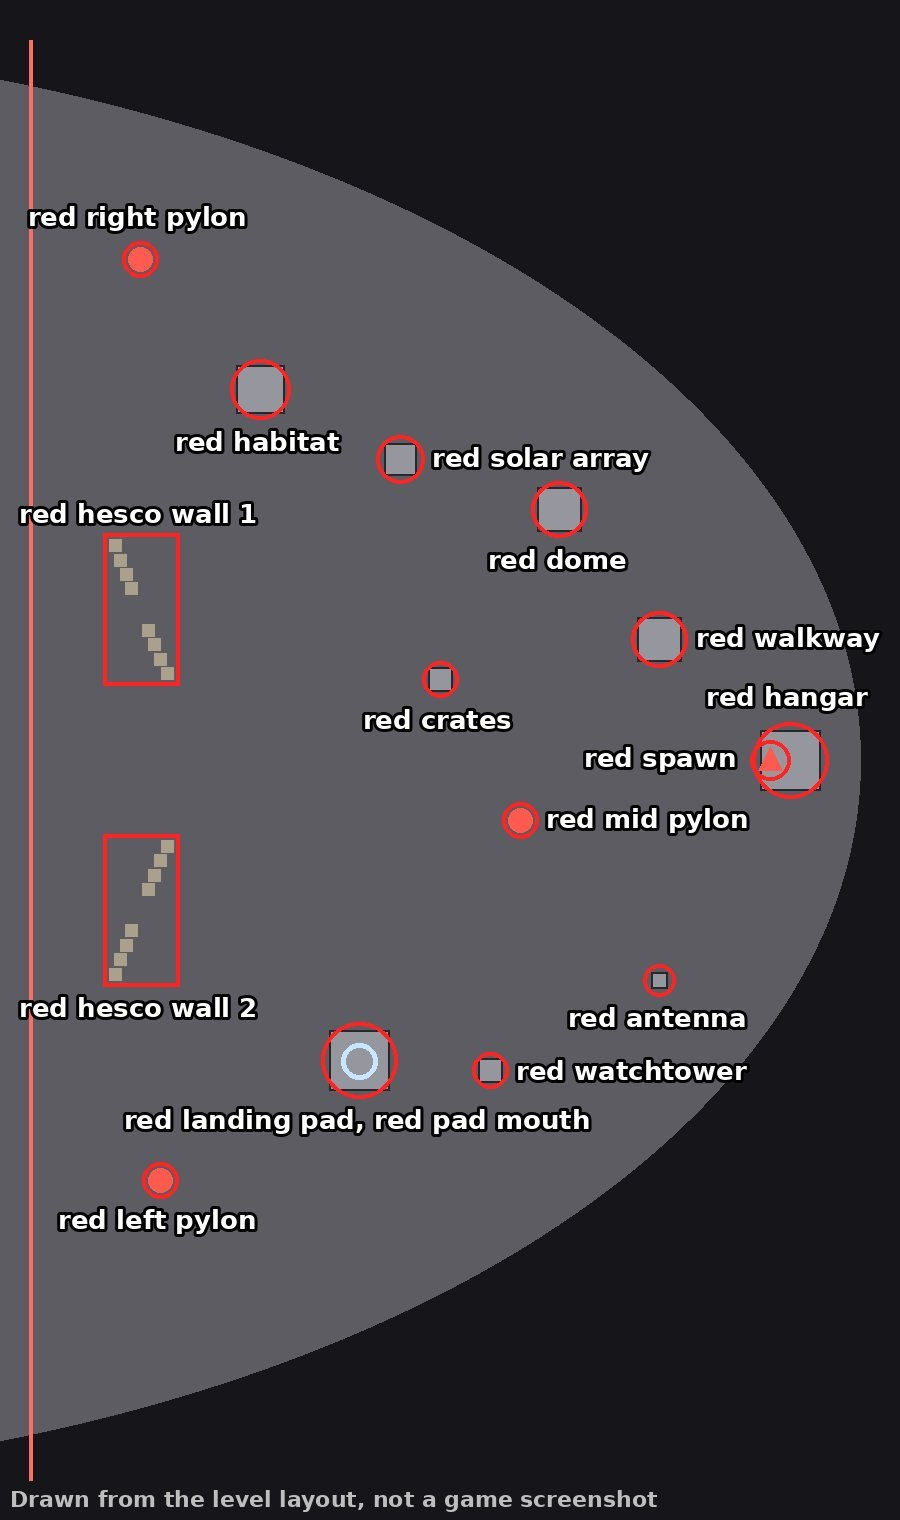
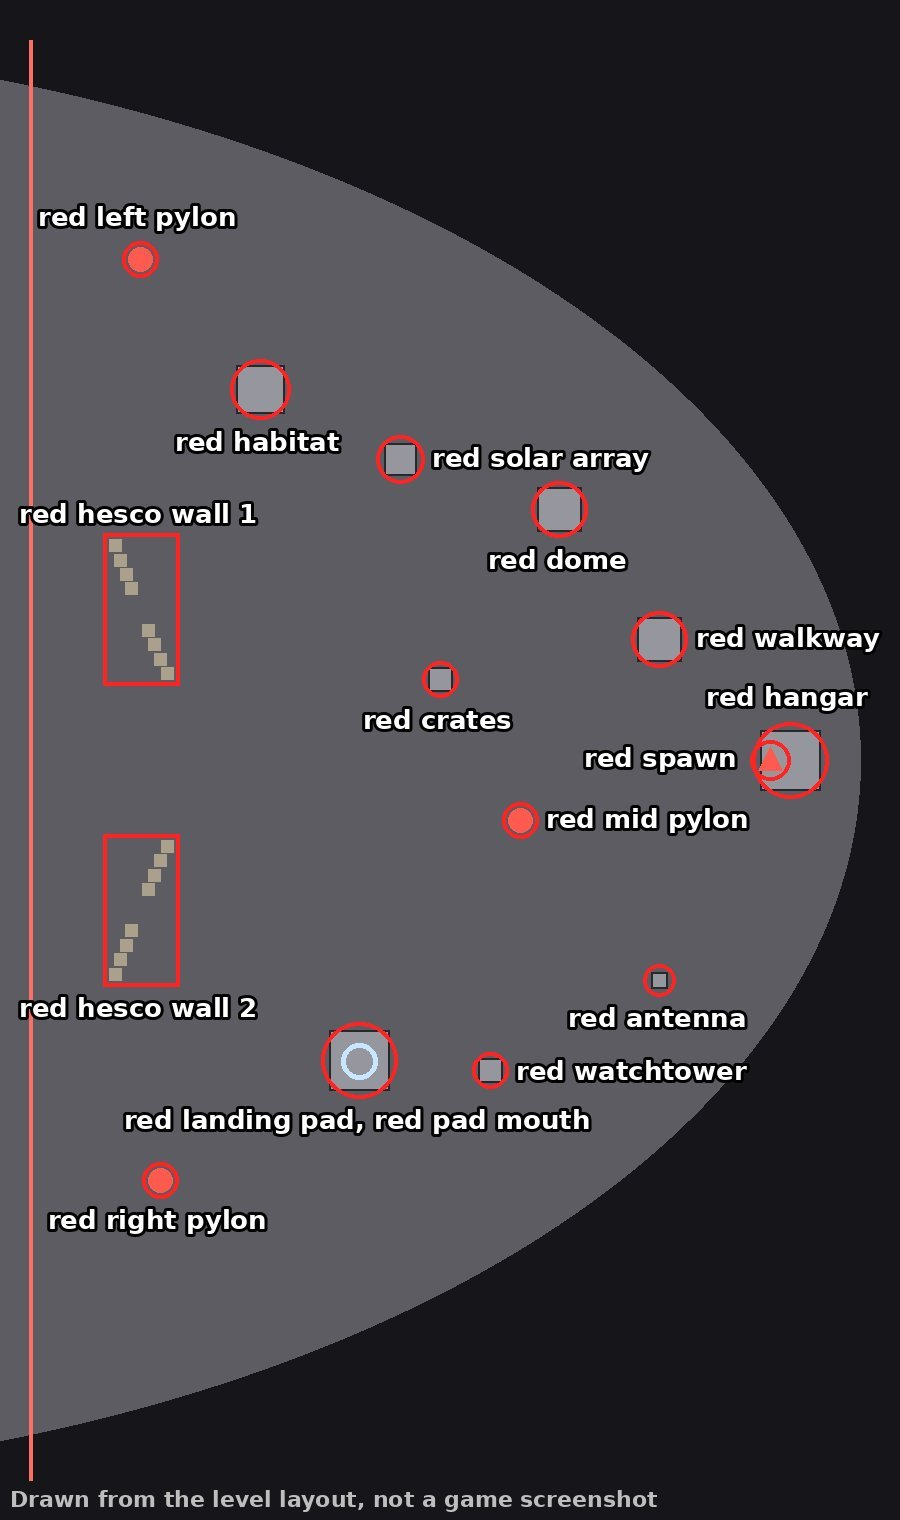
docs(game_design): Lunar Surface's world names red's objects from blue's side
Red's left and right pylons swap names, in the file and on the red
zone's picture, and the red zone's objects are placed on blue's left
or right, so that left, mid and right are seen from blue's spawn
as the worlds README now says. The picture was redrawn by the same
scratch script with only the two names swapped.

AGENT TRACES

* Cursor Cloud Agent claude-opus-5-5-high, trace bc-94920122-6130-4e3d-bf9f-13da367e9d4c, cloud
  contributed: renamed red's left and right pylons, placed red's objects from blue's side, and redrew the red zone's picture
  workspace: /home/ubuntu/wt-reorder, branch cursor/world-lunar-surface-9d4c
  transcript: https://cursor.com/agents/bc-94920122-6130-4e3d-bf9f-13da367e9d4c
  read it: open https://cursor.com/agents/bc-94920122-6130-4e3d-bf9f-13da367e9d4c

Kind: docs, design
Component: game-design
Domain: level-layout
Area: game_design
Read: game_design/worlds/README.md, game_design/worlds/lunar_surface.md
Verify: red's new left pylon is on the same side as blue's left pylon in common/maps/lunar_surface/map.json; nothing was run

Changed region(s): [[0.0622, 0.773, 0.28, 0.8349], [0.0311, 0.1237, 0.28, 0.1546]]

diff --git a/game_design/worlds/lunar_surface.md b/game_design/worlds/lunar_surface.md
@@ -12,7 +12,7 @@ describes the level in full.
 > These pictures are drawn from the level layout instead, as squares, circles and Hesco blocks on a flat ellipse, and
 > say so on the image. Replace them with marked map pictures once the game can make one.
 
-The pictures show blue on the left, so blue's left is the top of a picture and red's left is the bottom. The blue and
+The pictures show blue on the left, so left (blue's left) is the top of a picture. The blue and
 red lines are the edges of the team zones, the large circle is how far the black hole bends light, and the triangles
 are the spawns. Names follow the [naming rules](README.md#naming-rules); the layout is
 [`common/maps/lunar_surface/map.json`](../../common/maps/lunar_surface/map.json).
@@ -80,14 +80,14 @@ Lunar Surface
 | --- | --- | --- |
 | **red spawn** | Where red's players enter the level. | red spawn |
 | **red hangar** | The bunker garage that red's spawn is in. | red spawn hangar |
-| **red left pylon**, **red mid pylon**, **red right pylon** | Red's three pylons, left to right as seen from red's spawn facing blue. | red pylon |
+| **red left pylon**, **red mid pylon**, **red right pylon** | Red's three pylons, left to right as seen from blue's spawn facing red. | red pylon |
 | **red hesco wall 1**, **red hesco wall 2** | The two rows of 8 Hesco blocks near the edge of the red zone. | hesco block |
-| **red landing pad** | The landing pad on red's left. | red landing pad |
+| **red landing pad** | The landing pad on blue's right. | red landing pad |
 | **red pad mouth** | The mouth of the wormhole on the landing pad, which leads to the ridge mouth. | wormhole mouth B |
-| **red habitat** | The habitat module on red's right, with glass windows. | red habitat module |
-| **red dome** | The dome on red's right, near the spawn. | red dome |
+| **red habitat** | The habitat module on blue's left, with glass windows. | red habitat module |
+| **red dome** | The dome on blue's left, near the spawn. | red dome |
 | **red walkway** | The walkway near red's spawn, with glass windows. | red walkway |
-| **red watchtower** | The watchtower on red's left, beside the landing pad. | red watchtower |
-| **red antenna** | The antenna near red's spawn, on red's left. | red antenna |
+| **red watchtower** | The watchtower on blue's right, beside the landing pad. | red watchtower |
+| **red antenna** | The antenna near red's spawn, on blue's right. | red antenna |
 | **red crates** | The stack of crates in front of red's mid pylon. | red crates |
-| **red solar array** | The solar array on red's right. | red solar array |
+| **red solar array** | The solar array on blue's left. | red solar array |
